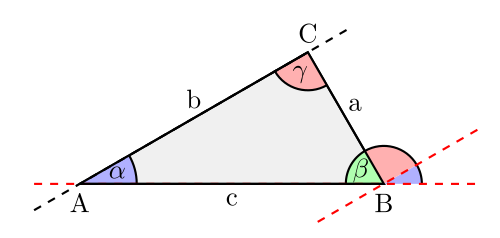
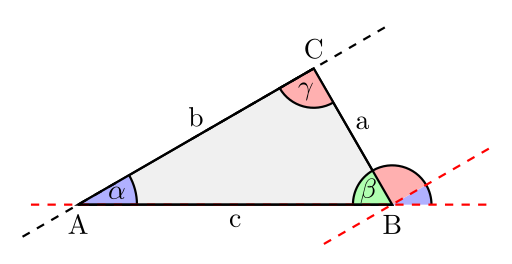
Quality improvement of dashed lines

diff --git a/tikz/triangle-angles/triangle-angles.tex b/tikz/triangle-angles/triangle-angles.tex
@@ -2,6 +2,7 @@
 \usepackage[pdftex,active,tightpage]{preview}
 \setlength\PreviewBorder{2mm}
 \usepackage{tikz}
+\usetikzlibrary{calc}
 \usepackage{tkz-euclide}
 \usetikzlibrary{shapes, calc, shapes, decorations}
 \usepackage{amsmath,amssymb}
@@ -76,7 +77,12 @@
         -- (\XC,  0) coordinate (Z)
         -- (0,    0);
 
-    \tkzDrawLine[thick,dashed](A,C)
+    \node at ( $ (A)!-0.2!(C) $ ) (helper11) {};
+    \node at ( $ (A)!0.1!(C) $ ) (helper12) {};
+    \node at ( $ (A)!0.6!(C) $ ) (helper2) {};
+    \node at ( $ (C)!-0.2!(A) $ ) (helper3) {};
+    \tkzDrawLine[thick,dashed](helper12,helper11)
+    \tkzDrawLine[thick,dashed](helper2, helper3)
 \end{tikzpicture}
 \end{preview}
 \end{document}
